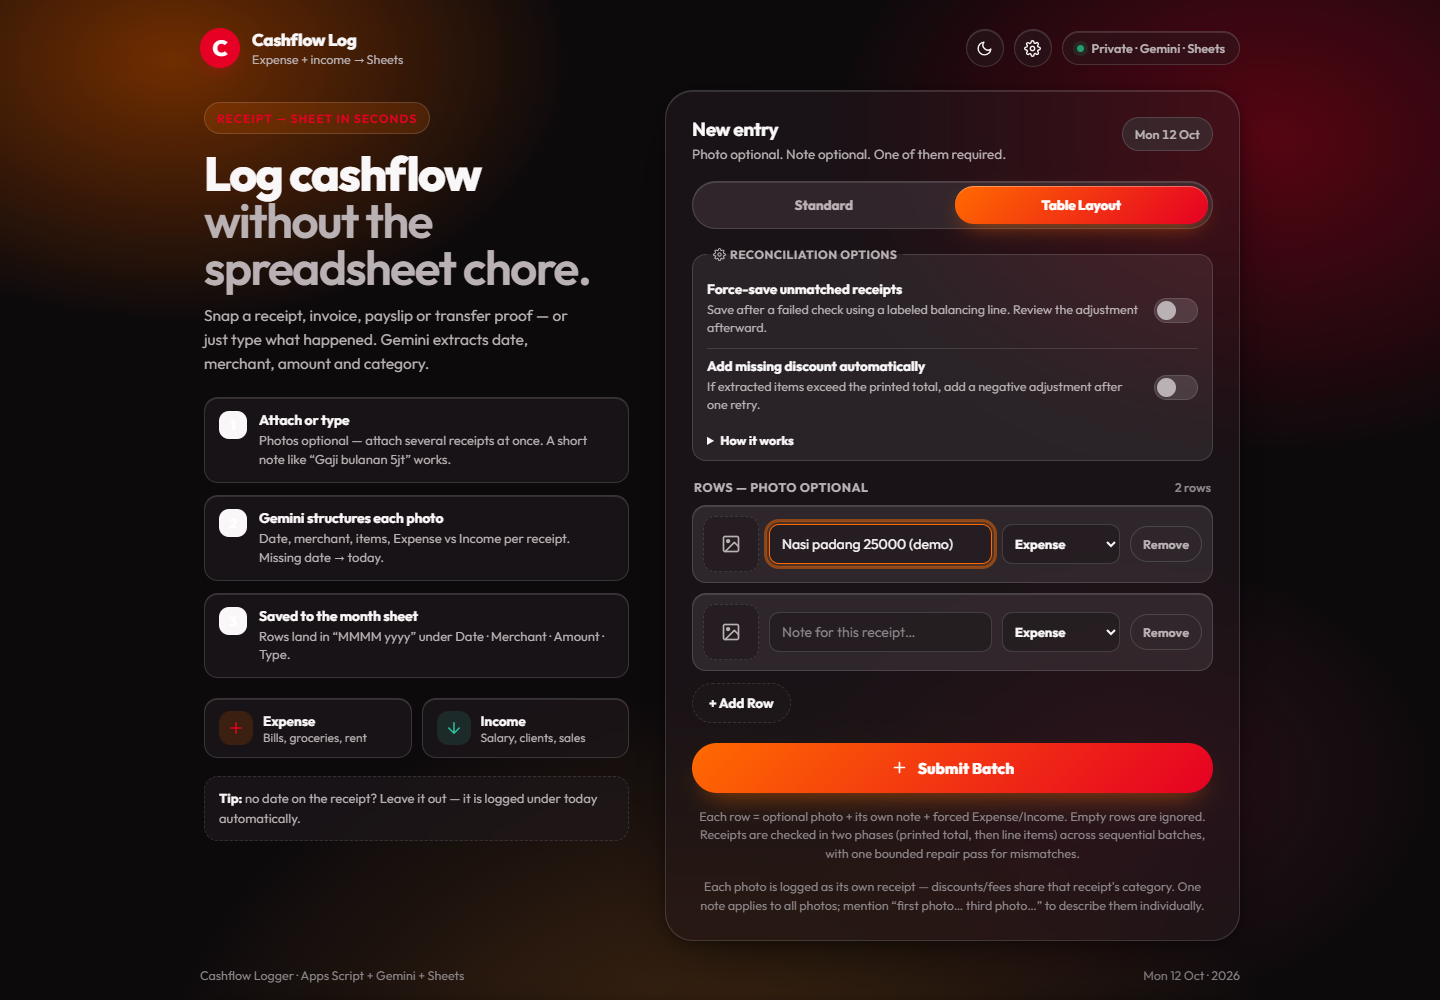
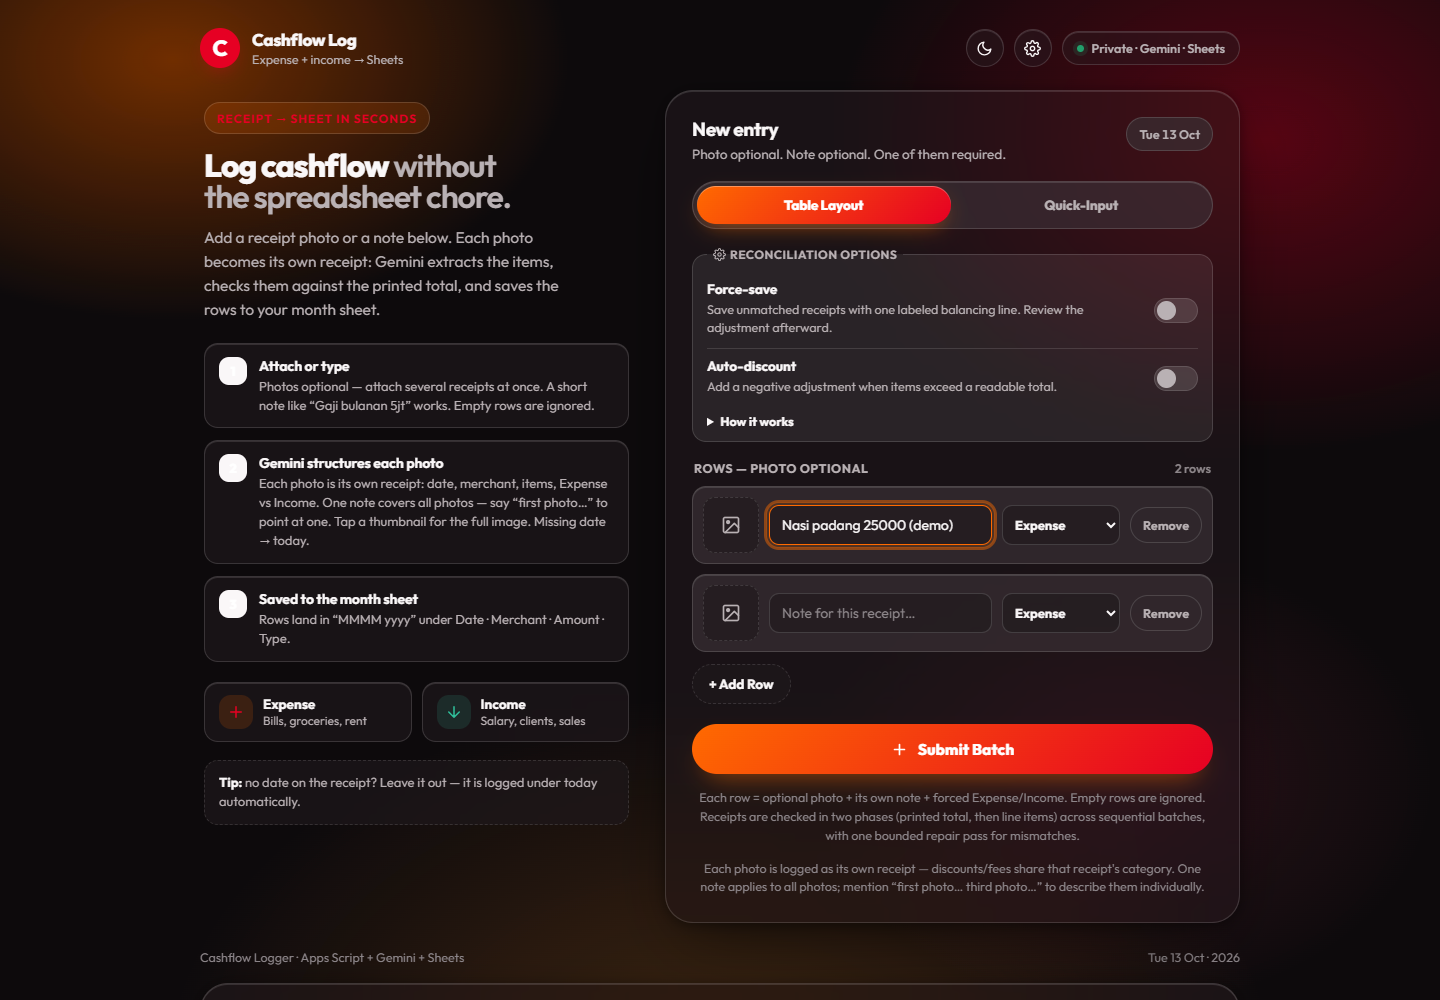
Roadmap Phase 1.3: concise intro, short toggle titles, extended How-it-works

diff --git a/Index.html b/Index.html
@@ -263,6 +263,7 @@
       text-wrap: balance;
     }
     h1 .thin { color: var(--muted); font-weight: 600; }
+    .hero h1 { font-size: clamp(24px, 3vw, 32px); }
     .lede {
       margin: 0 0 22px;
       color: var(--muted);
@@ -1354,12 +1355,12 @@
     <section class="hero" aria-label="About">
       <div class="eyebrow">Receipt &rarr; Sheet in seconds</div>
       <h1>Log cashflow <span class="thin">without the spreadsheet chore.</span></h1>
-      <p class="lede">Snap a receipt, invoice, payslip or transfer proof — or just type what happened. Gemini extracts date, merchant, amount and category.</p>
+      <p class="lede">Add a receipt photo or a note below. Each photo becomes its own receipt: Gemini extracts the items, checks them against the printed total, and saves the rows to your month sheet.</p>
       <p class="hero-compact-note">Snap a receipt or describe income / expense below.</p>
 
       <ul class="steps">
-        <li><div class="step-n">1</div><div><b>Attach or type</b><span>Photos optional — attach several receipts at once. A short note like “Gaji bulanan 5jt” works.</span></div></li>
-        <li><div class="step-n">2</div><div><b>Gemini structures each photo</b><span>Date, merchant, items, Expense vs Income per receipt. Missing date &rarr; today.</span></div></li>
+        <li><div class="step-n">1</div><div><b>Attach or type</b><span>Photos optional — attach several receipts at once. A short note like “Gaji bulanan 5jt” works. Empty rows are ignored.</span></div></li>
+        <li><div class="step-n">2</div><div><b>Gemini structures each photo</b><span>Each photo is its own receipt: date, merchant, items, Expense vs Income. One note covers all photos — say “first photo…” to point at one. Tap a thumbnail for the full image. Missing date &rarr; today.</span></div></li>
         <li><div class="step-n">3</div><div><b>Saved to the month sheet</b><span>Rows land in “MMMM yyyy” under Date · Merchant · Amount · Type.</span></div></li>
       </ul>
 
@@ -1398,19 +1399,19 @@
       <fieldset class="recon-toggles" aria-label="Receipt reconciliation options">
         <legend><svg width="13" height="13" viewBox="0 0 24 24" fill="none" stroke="currentColor" stroke-width="2" stroke-linecap="round" stroke-linejoin="round" aria-hidden="true"><circle cx="12" cy="12" r="3"/><path d="M19.4 15a1.65 1.65 0 0 0 .33 1.82l.06.06a2 2 0 0 1 0 2.83 2 2 0 0 1-2.83 0l-.06-.06a1.65 1.65 0 0 0-1.82-.33 1.65 1.65 0 0 0-1 1.51V21a2 2 0 0 1-2 2 2 2 0 0 1-2-2v-.09A1.65 1.65 0 0 0 9 19.4a1.65 1.65 0 0 0-1.82.33l-.06.06a2 2 0 0 1-2.83 0 2 2 0 0 1 0-2.83l.06-.06a1.65 1.65 0 0 0 .33-1.82 1.65 1.65 0 0 0-1.51-1H3a2 2 0 0 1-2-2 2 2 0 0 1 2-2h.09A1.65 1.65 0 0 0 4.6 9a1.65 1.65 0 0 0-.33-1.82l-.06-.06a2 2 0 0 1 0-2.83 2 2 0 0 1 2.83 0l.06.06a1.65 1.65 0 0 0 1.82.33H9a1.65 1.65 0 0 0 1-1.51V3a2 2 0 0 1 2-2 2 2 0 0 1 2 2v.09a1.65 1.65 0 0 0 1 1.51 1.65 1.65 0 0 0 1.82-.33l.06-.06a2 2 0 0 1 2.83 0 2 2 0 0 1 0 2.83l-.06.06a1.65 1.65 0 0 0-.33 1.82V9a1.65 1.65 0 0 0 1.51 1H21a2 2 0 0 1 2 2 2 2 0 0 1-2 2h-.09a1.65 1.65 0 0 0-1.51 1z"/></svg>Reconciliation options</legend>
         <label class="switch">
-          <span class="txt"><b>Force-save unmatched receipts</b><i>Save after a failed check using a labeled balancing line. Review the adjustment afterward.</i></span>
-          <input type="checkbox" id="toggle-force" aria-label="Force-save unmatched receipts">
+          <span class="txt"><b>Force-save</b><i>Save unmatched receipts with one labeled balancing line. Review the adjustment afterward.</i></span>
+          <input type="checkbox" id="toggle-force" aria-label="Force-save">
           <span class="track" aria-hidden="true"><span class="thumb"></span></span>
         </label>
         <label class="switch">
-          <span class="txt"><b>Add missing discount automatically</b><i>If extracted items exceed the printed total, add a negative adjustment after one retry.</i></span>
-          <input type="checkbox" id="toggle-discount" aria-label="Add missing discount automatically">
+          <span class="txt"><b>Auto-discount</b><i>Add a negative adjustment when items exceed a readable total.</i></span>
+          <input type="checkbox" id="toggle-discount" aria-label="Auto-discount">
           <span class="track" aria-hidden="true"><span class="thumb"></span></span>
         </label>
         <p class="switch-note hidden" id="discount-note">Auto-discount is unavailable while Force-save is on — Force-save already covers both directions.</p>
         <details class="recon-details">
           <summary>How it works</summary>
-          <p>Each receipt photo is checked in two phases: first the printed total is read, then every line item is extracted and the signed sum must match that total exactly. A mismatch gets one automatic re-check. With both options off, mismatched rows stay for review and nothing unverified is saved. Force-save adds exactly one clearly labeled placeholder line for the difference; auto-discount only ever adds a negative line when items exceed a readable total. Placeholder lines are always marked in Notes — review them afterward.</p>
+          <p>Each receipt photo is checked in two phases: first the printed total is read, then every line item is extracted and the signed sum must match that total exactly. A mismatch gets one automatic re-check. Receipts submit in sequential bounded batches; valid rows are logged even while others wait for review with their photos. With both options off, mismatched rows stay for review and nothing unverified is saved. Force-save adds exactly one clearly labeled placeholder line for the difference; auto-discount only ever adds a negative line when items exceed a readable total. Placeholder lines are always marked in Notes — review them afterward.</p>
         </details>
       </fieldset>
 

diff --git a/README.md b/README.md
@@ -24,7 +24,7 @@ It is useful for anyone who already lives in Google Sheets and wants receipt log
 - **Two-phase total reconciliation** — Phase 1 reads each photo's printed total, Phase 2 extracts every line item, and each receipt's item sum must match its printed total exactly.
 - **Batched submission pipeline** — Table Layout rows (the default tab) grow dynamically with no row cap and submit as sequential bounded batches that split automatically when a batch is too large.
 - **Repair and review handling** — Mismatches get one bounded repair pass; unresolved rows stay in the app with their photos for review while valid rows are still logged. Nothing unverified is saved silently.
-- **Optional balancing rules** (both OFF by default) — **Force-save unmatched receipts** adds one labeled balancing line after a failed check; **Add missing discount automatically** adds only a negative adjustment when items exceed a readable printed total. Turning Force-save on visibly suspends auto-discount without losing your choice.
+- **Optional balancing rules** (both OFF by default) — **Force-save** adds one labeled balancing line after a failed check; **Auto-discount** adds only a negative adjustment when items exceed a readable printed total. Turning Force-save on visibly suspends auto-discount without losing your choice.
 - **Transaction IDs** — Every receipt gets a unique `YYYYMMDD` + letter-sequence ID (e.g. `20261231AA`) shared by all its rows; month sheets sort chronologically with rows ordered by Transaction ID after clean reports.
 - **Entry IDs** — Every line item carries a system-managed unique ID that survives sorting, deletion, and recovery. Both IDs are looked up by header name, never by column position.
 - **Google Sheets integration** — Rows append to `MMMM yyyy` month sheets copied from an auto-created `Template`; missing system headers are migrated idempotently.
